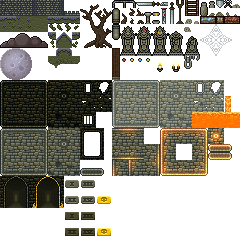
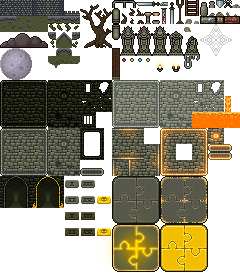
New sprites for Dokuro (glowing and aquiring sword), jigsaw sprites, ending level

diff --git a/lib/game/levels/ending.js b/lib/game/levels/ending.js
@@ -1,6 +1,6 @@
 ig.module( 'game.levels.ending' )
 .requires('impact.image','game.entities.dokuro','game.entities.door')
 .defines(function(){
-LevelEnding=/*JSON[*/{"entities":[{"type":"EntityDokuro","x":33,"y":188},{"type":"EntityDoor","x":40,"y":176,"settings":{"keepClosed":"true"}}],"layer":[{"name":"background","width":40,"height":30,"linkWithCollision":false,"visible":1,"tilesetName":"media/full-background.png","repeat":false,"preRender":false,"distance":"1","tilesize":8,"foreground":false,"data":[[1,2,3,4,5,6,7,8,9,10,11,12,13,14,15,16,17,18,19,20,21,22,23,24,25,26,27,28,29,30,31,32,33,34,35,36,37,38,39,40],[41,42,43,44,45,46,47,48,49,50,51,52,53,54,55,56,57,58,59,60,61,62,63,64,65,66,67,68,69,70,71,72,73,74,75,76,77,78,79,80],[81,82,83,84,85,86,87,88,89,90,91,92,93,94,95,96,97,98,99,100,101,102,103,104,105,106,107,108,109,110,111,112,113,114,115,116,117,118,119,120],[121,122,123,124,125,126,127,128,129,130,131,132,133,134,135,136,137,138,139,140,141,142,143,144,145,146,147,148,149,150,151,152,153,154,155,156,157,158,159,160],[161,162,163,164,165,166,167,168,169,170,171,172,173,174,175,176,177,178,179,180,181,182,183,184,185,186,187,188,189,190,191,192,193,194,195,196,197,198,199,200],[201,202,203,204,205,206,207,208,209,210,211,212,213,214,215,216,217,218,219,220,221,222,223,224,225,226,227,228,229,230,231,232,233,234,235,236,237,238,239,240],[241,242,243,244,245,246,247,248,249,250,251,252,253,254,255,256,257,258,259,260,261,262,263,264,265,266,267,268,269,270,271,272,273,274,275,276,277,278,279,280],[281,282,283,284,285,286,287,288,289,290,291,292,293,294,295,296,297,298,299,300,301,302,303,304,305,306,307,308,309,310,311,312,313,314,315,316,317,318,319,320],[321,322,323,324,325,326,327,328,329,330,331,332,333,334,335,336,337,338,339,340,341,342,343,344,345,346,347,348,349,350,351,352,353,354,355,356,357,358,359,360],[361,362,363,364,365,366,367,368,369,370,371,372,373,374,375,376,377,378,379,380,381,382,383,384,385,386,387,388,389,390,391,392,393,394,395,396,397,398,399,400],[401,402,403,404,405,406,407,408,409,410,411,412,413,414,415,416,417,418,419,420,421,411,411,411,411,411,411,411,411,411,411,411,433,434,435,436,437,438,439,440],[441,442,443,444,445,446,447,448,449,450,451,452,453,454,455,456,457,458,459,411,411,411,411,411,411,411,411,411,411,411,411,411,473,474,475,476,477,478,479,480],[481,482,483,484,485,486,487,488,489,490,491,492,493,494,495,496,497,498,499,500,501,502,503,504,505,506,507,508,509,510,497,512,513,514,515,516,517,518,519,520],[521,522,523,524,525,526,527,528,529,530,531,532,533,534,535,536,537,538,539,540,541,542,543,544,545,546,547,548,549,550,551,552,553,554,555,556,557,558,559,560],[561,562,563,564,565,566,567,568,569,570,571,572,573,574,575,576,577,578,579,580,581,582,583,584,585,586,587,588,589,590,591,592,593,594,595,596,597,598,599,600],[601,602,603,604,605,606,607,608,609,610,611,612,613,614,615,616,617,618,619,620,621,622,623,624,625,626,627,628,629,630,631,632,633,634,635,636,637,638,639,640],[641,642,643,644,645,646,647,648,649,650,651,652,653,654,655,656,657,658,659,660,661,662,663,664,665,666,667,668,669,670,671,672,673,674,675,676,677,678,679,680],[681,682,683,684,685,686,687,688,689,690,691,692,693,694,695,696,697,698,699,700,701,702,703,704,705,706,707,708,709,710,711,712,713,714,715,716,717,718,719,720],[721,722,723,724,725,726,727,728,729,730,731,732,733,734,735,736,737,738,739,740,741,742,743,744,745,746,747,748,749,750,751,752,753,754,755,756,757,758,759,760],[761,762,763,764,765,766,767,768,769,770,771,772,773,774,775,776,777,778,779,780,781,782,783,784,785,786,787,788,789,790,791,792,793,794,795,796,797,798,799,800],[801,802,803,804,805,806,807,808,809,810,811,812,813,814,815,816,817,818,819,820,821,822,823,824,825,826,827,828,829,830,831,832,833,834,835,836,837,838,839,840],[841,842,843,844,845,846,847,848,849,850,851,852,853,854,855,856,857,858,859,860,861,862,863,864,865,866,867,868,869,870,871,872,873,874,875,876,877,878,879,880],[881,882,883,884,885,886,887,888,889,890,891,892,893,894,895,896,897,898,899,900,901,902,903,904,905,906,907,908,909,910,911,912,913,914,915,916,917,918,919,920],[921,922,923,924,925,926,927,928,929,930,931,932,933,934,935,936,937,938,939,940,941,942,943,944,945,946,947,948,949,950,951,952,953,954,955,956,957,958,959,960],[961,962,963,964,965,966,967,968,969,970,971,972,973,974,975,976,977,978,979,980,981,982,983,984,985,986,987,988,989,990,991,992,993,994,995,996,997,998,999,1000],[1001,1002,1003,1004,1005,1006,1007,1008,1009,1010,1011,1012,1013,1014,1015,1016,1017,1018,1019,1020,1021,1022,1023,1024,1025,1026,1027,1028,1029,1030,1031,1032,1033,1034,1035,1036,1037,1038,1039,1040],[1041,1042,1043,1044,1045,1046,1047,1048,1049,1050,1051,1052,1053,1054,1055,1056,1057,1058,1059,1060,1061,1062,1063,1064,1065,1066,1067,1068,1069,1070,1071,1072,1073,1074,1075,1076,1077,1078,1079,1080],[1081,1082,1083,1084,1085,1086,1087,1088,1089,1090,1091,1092,1093,1094,1095,1096,1097,1098,1099,1100,1101,1102,1103,1104,1105,1106,1107,1108,1109,1110,1111,1112,1113,1114,1115,1116,1117,1118,1119,1120],[1121,1122,1123,1124,1125,1126,1127,1128,1129,1130,1131,1132,1133,1134,1135,1136,1137,1138,1139,1140,1141,1142,1143,1144,1145,1146,1147,1148,1149,1150,1151,1152,1153,1154,1155,1156,1157,1158,1159,1160],[1161,1162,1163,1164,1165,1166,1167,1168,1169,1170,1171,1172,1173,1174,1175,1176,1177,1178,1179,1180,1181,1182,1183,1184,1185,1186,1187,1188,1189,1190,1191,1192,1193,1194,1195,1196,1197,1198,1199,1200]]},{"name":"sky","width":40,"height":30,"linkWithCollision":false,"visible":1,"tilesetName":"media/scene.png","repeat":false,"preRender":false,"distance":"1","tilesize":8,"foreground":false,"data":[[0,0,0,0,0,0,0,0,0,0,0,0,0,0,0,0,0,0,0,0,0,0,0,0,0,0,0,0,0,0,0,0,0,0,0,0,0,0,0,0],[0,0,0,0,0,0,0,0,0,0,0,0,0,181,182,183,184,0,0,0,0,0,0,0,0,0,0,0,0,0,0,0,0,0,0,0,0,0,0,0],[0,0,0,0,0,0,0,0,0,0,0,0,0,211,212,213,214,0,0,0,0,0,0,121,122,123,124,125,126,0,0,0,0,0,0,0,0,0,0,0],[0,0,0,0,0,0,0,0,0,0,0,0,0,241,242,243,244,0,0,0,0,0,0,151,152,153,154,155,156,0,0,0,0,0,0,0,0,0,0,0],[0,121,122,123,124,125,126,0,0,0,0,0,0,271,272,273,274,0,0,0,0,0,0,0,0,0,0,0,0,0,0,0,0,0,0,0,0,0,0,0],[0,151,152,153,154,155,156,0,0,0,0,0,0,0,0,0,0,0,0,0,0,0,0,0,0,0,0,0,0,0,0,0,0,0,0,0,0,0,0,0],[0,0,0,0,0,0,0,0,0,121,122,123,124,125,126,0,0,0,0,0,0,0,0,0,0,0,0,0,0,0,0,0,0,0,0,0,0,0,0,0],[0,0,0,0,0,0,0,0,0,151,152,153,154,155,156,0,0,0,0,0,0,0,0,0,0,0,0,0,0,0,0,0,0,0,0,0,0,0,0,0],[0,0,0,0,0,0,0,0,0,0,0,0,0,0,0,0,0,0,0,0,0,0,0,0,0,0,0,0,0,0,0,0,0,0,0,0,0,0,0,0],[0,0,0,0,0,0,0,0,0,0,0,0,0,0,0,0,0,0,0,0,0,0,0,0,0,0,0,0,0,0,0,0,0,0,0,0,0,0,0,0],[0,0,0,0,0,0,0,0,0,0,0,0,0,0,0,0,0,0,0,0,0,0,0,0,0,0,0,0,0,0,0,0,0,0,0,0,0,0,0,0],[0,0,0,0,0,0,0,0,0,0,0,0,0,0,0,0,0,0,0,0,0,0,0,0,0,0,0,0,0,0,0,0,0,0,0,0,0,0,0,0],[0,0,0,0,0,0,0,0,0,0,0,0,0,0,0,0,0,0,0,0,0,0,0,0,0,0,0,0,0,0,0,0,0,0,0,0,0,0,0,0],[0,0,0,0,0,0,0,0,0,0,0,0,0,0,0,0,0,0,0,0,0,0,0,0,0,0,0,0,0,0,0,0,0,0,0,0,0,0,0,0],[0,0,0,0,0,0,0,0,0,0,0,0,0,0,0,0,0,0,0,0,0,0,0,0,0,0,0,0,0,0,0,0,0,0,0,0,0,0,0,0],[0,0,0,0,0,0,0,0,0,0,0,0,0,0,0,0,0,0,0,0,0,0,0,0,0,0,0,0,0,0,0,0,0,0,0,0,0,0,0,0],[0,0,0,0,0,0,0,0,0,0,0,0,0,0,0,0,0,0,0,0,0,0,0,0,0,0,0,0,0,0,0,0,0,0,0,0,0,0,0,0],[0,0,0,0,0,0,0,0,0,0,0,0,0,0,0,0,0,0,0,0,0,0,0,0,0,0,0,0,0,0,0,0,0,0,0,0,0,0,0,0],[0,0,0,0,0,0,0,0,0,0,0,0,0,0,0,0,0,0,0,0,0,0,0,0,0,0,0,0,0,0,0,0,0,0,0,0,0,0,0,0],[0,0,0,0,0,0,0,0,0,0,0,0,0,0,0,0,0,0,0,0,0,0,0,0,0,0,0,0,0,0,0,0,0,0,0,0,0,0,0,0],[0,0,0,0,0,0,0,0,0,0,0,0,0,0,0,0,0,0,0,0,0,0,0,0,0,0,0,0,0,0,0,0,0,0,0,0,0,0,0,0],[0,0,0,0,0,0,0,0,0,0,0,0,0,0,0,0,0,0,0,0,0,0,0,0,0,0,0,0,0,0,0,0,0,0,0,0,0,0,0,0],[0,0,0,0,0,0,0,0,0,0,0,0,0,0,0,0,0,0,0,0,0,0,0,0,0,0,0,0,0,0,0,0,0,0,0,0,0,0,0,0],[0,0,0,0,0,0,0,0,0,0,0,0,0,0,0,0,0,0,0,0,0,0,0,0,0,0,0,0,0,0,0,0,0,0,0,0,0,0,0,0],[0,0,0,0,0,0,0,0,0,0,0,0,0,0,0,0,0,0,0,0,0,0,0,0,0,0,0,0,0,0,0,0,0,0,0,0,0,0,0,0],[0,0,0,0,0,0,0,0,0,0,0,0,0,0,0,0,0,0,0,0,0,0,0,0,0,0,0,0,0,0,0,0,0,0,0,0,0,0,0,0],[0,0,0,0,0,0,0,0,0,0,0,0,0,0,0,0,0,0,0,0,0,0,0,0,0,0,0,0,0,0,0,0,0,0,0,0,0,0,0,0],[0,0,0,0,0,0,0,0,0,0,0,0,0,0,0,0,0,0,0,0,0,0,0,0,0,0,0,0,0,0,0,0,0,0,0,0,0,0,0,0],[0,0,0,0,0,0,0,0,0,0,0,0,0,0,0,0,0,0,0,0,0,0,0,0,0,0,0,0,0,0,0,0,0,0,0,0,0,0,0,0],[0,0,0,0,0,0,0,0,0,0,0,0,0,0,0,0,0,0,0,0,0,0,0,0,0,0,0,0,0,0,0,0,0,0,0,0,0,0,0,0]]},{"name":"terrain","width":40,"height":30,"linkWithCollision":true,"visible":1,"tilesetName":"media/scene.png","repeat":false,"preRender":false,"distance":"1","tilesize":8,"foreground":false,"data":[[0,0,0,0,0,0,0,0,0,0,0,0,0,0,0,0,0,0,0,0,0,0,0,0,0,0,0,0,0,0,0,0,0,0,0,0,0,0,0,543],[0,0,0,0,0,0,0,0,0,0,0,0,0,0,0,0,0,0,0,0,0,0,0,0,0,0,0,0,0,0,0,0,0,0,0,0,0,0,0,0],[0,0,0,0,0,0,0,0,0,0,0,0,0,0,0,0,0,0,0,0,0,0,0,0,0,0,0,0,0,0,0,0,0,0,0,0,0,0,0,0],[0,0,0,0,0,0,0,0,0,0,0,0,0,0,0,0,0,0,0,0,0,0,0,0,0,0,0,0,0,0,0,0,0,0,0,0,0,0,0,0],[0,0,0,0,0,0,0,0,0,0,0,0,0,0,0,0,0,0,0,0,0,0,0,0,0,0,0,0,0,0,0,0,0,0,0,0,0,0,0,0],[0,0,0,0,0,0,0,0,0,0,0,0,0,0,0,0,0,0,0,0,0,0,0,0,0,0,0,0,0,0,0,0,0,0,0,0,0,0,0,0],[0,0,0,0,0,0,0,0,0,0,0,0,0,0,0,0,0,0,0,0,0,0,0,0,0,0,0,0,0,0,0,0,0,0,0,0,0,0,0,0],[0,0,0,0,0,0,0,0,0,0,0,0,0,0,0,0,0,0,0,0,0,0,0,0,0,0,0,0,0,0,0,0,0,0,0,0,0,0,0,0],[0,0,0,0,0,0,0,0,0,0,0,0,0,0,0,0,0,0,0,0,0,0,0,0,0,0,0,0,0,0,0,0,0,0,0,0,0,0,0,0],[0,0,0,0,0,0,0,0,0,0,0,0,0,0,0,0,0,0,0,0,0,0,0,0,0,0,0,0,0,0,0,0,0,0,0,0,0,0,0,0],[0,0,0,0,0,0,0,0,0,0,0,0,0,0,0,0,0,0,0,0,0,0,0,0,0,0,0,0,0,0,0,0,0,0,0,0,0,0,0,0],[0,0,0,0,0,0,0,0,0,0,0,0,0,0,0,0,0,0,0,0,0,0,0,0,0,0,0,0,0,0,0,0,0,0,0,0,0,0,0,0],[0,0,0,0,0,0,0,0,0,0,0,0,0,0,0,0,0,0,0,0,0,0,0,0,0,0,0,0,0,0,0,0,0,0,0,0,0,0,0,0],[0,0,0,0,0,0,0,0,0,0,0,0,0,0,0,0,0,0,0,0,0,0,0,0,0,0,0,0,0,0,0,0,0,0,0,0,0,0,0,0],[0,0,0,0,0,0,0,0,0,0,0,0,0,0,0,0,0,0,0,0,0,0,0,0,0,0,0,0,0,0,0,0,0,0,0,0,0,0,0,0],[0,0,0,0,0,0,0,0,0,0,0,0,0,0,0,0,0,0,0,0,0,0,0,0,0,0,0,0,0,0,0,0,0,0,0,0,0,0,0,0],[0,0,0,0,0,0,0,0,0,0,0,0,0,0,0,0,0,0,0,0,0,0,0,0,0,0,0,0,0,0,0,0,0,0,0,0,0,0,0,0],[0,0,0,0,0,0,0,0,0,0,0,0,0,0,0,0,0,0,0,0,0,0,0,0,0,0,0,0,0,0,0,0,0,0,0,0,0,0,0,0],[0,0,0,0,0,0,0,0,0,0,0,0,0,0,0,0,0,0,0,0,0,0,0,0,0,0,0,0,0,0,0,0,0,0,0,0,0,0,0,0],[0,0,0,0,0,0,0,0,0,0,0,0,0,0,0,0,0,0,0,0,0,0,0,0,0,0,0,0,0,0,0,0,0,0,0,0,0,0,0,0],[0,0,0,0,0,0,0,0,0,0,0,0,0,0,0,0,0,0,0,0,0,0,0,0,0,0,0,0,0,0,0,0,0,0,0,0,0,0,0,0],[0,0,0,0,0,0,0,0,0,0,0,0,0,0,0,0,0,0,0,0,0,0,0,0,0,0,0,0,0,0,0,0,0,0,0,0,0,0,0,0],[0,0,0,0,0,0,0,0,0,0,0,0,0,0,0,0,0,0,0,0,0,0,0,0,0,0,0,0,0,0,0,0,0,0,0,0,0,0,0,0],[0,0,0,0,0,0,0,0,0,0,0,0,0,0,0,0,0,0,0,0,0,0,0,0,0,0,0,0,0,0,0,0,0,0,0,0,0,0,0,0],[0,0,0,0,0,0,0,0,0,0,0,46,0,0,0,0,0,0,0,0,0,0,0,0,0,0,0,0,0,0,0,0,0,0,0,0,0,0,0,0],[0,0,0,0,0,0,0,0,0,0,0,76,78,0,0,0,0,0,0,0,0,0,0,0,0,0,0,0,0,0,0,0,0,0,0,0,0,0,0,0],[61,62,61,62,61,62,61,62,61,62,61,62,61,62,61,62,61,62,61,62,61,62,61,62,61,62,61,62,61,62,61,62,61,62,61,62,61,62,61,62],[91,92,91,92,91,92,91,92,91,92,91,92,91,92,91,92,91,92,91,92,91,92,91,92,91,92,91,92,91,92,91,92,91,92,91,92,91,92,91,92],[63,64,63,64,63,64,63,64,63,64,63,64,63,64,63,64,63,64,63,64,63,64,63,64,63,64,63,64,63,64,63,64,63,64,63,64,63,64,63,64],[93,94,93,94,93,94,93,94,93,94,93,94,93,94,93,94,93,94,93,94,93,94,93,94,93,94,93,94,93,94,93,94,93,94,93,94,93,94,93,94]]},{"name":"collision","width":40,"height":30,"linkWithCollision":false,"visible":0,"tilesetName":"","repeat":false,"preRender":false,"distance":1,"tilesize":8,"foreground":false,"data":[[0,0,0,0,0,0,0,0,0,0,0,0,0,0,0,0,0,0,0,0,0,0,0,0,0,0,0,0,0,0,0,0,0,0,0,0,0,0,0,1],[0,0,0,0,0,0,0,0,0,0,0,0,0,0,0,0,0,0,0,0,0,0,0,0,0,0,0,0,0,0,0,0,0,0,0,0,0,0,0,0],[0,0,0,0,0,0,0,0,0,0,0,0,0,0,0,0,0,0,0,0,0,0,0,0,0,0,0,0,0,0,0,0,0,0,0,0,0,0,0,0],[0,0,0,0,0,0,0,0,0,0,0,0,0,0,0,0,0,0,0,0,0,0,0,0,0,0,0,0,0,0,0,0,0,0,0,0,0,0,0,0],[0,0,0,0,0,0,0,0,0,0,0,0,0,0,0,0,0,0,0,0,0,0,0,0,0,0,0,0,0,0,0,0,0,0,0,0,0,0,0,0],[0,0,0,0,0,0,0,0,0,0,0,0,0,0,0,0,0,0,0,0,0,0,0,0,0,0,0,0,0,0,0,0,0,0,0,0,0,0,0,0],[0,0,0,0,0,0,0,0,0,0,0,0,0,0,0,0,0,0,0,0,0,0,0,0,0,0,0,0,0,0,0,0,0,0,0,0,0,0,0,0],[0,0,0,0,0,0,0,0,0,0,0,0,0,0,0,0,0,0,0,0,0,0,0,0,0,0,0,0,0,0,0,0,0,0,0,0,0,0,0,0],[0,0,0,0,0,0,0,0,0,0,0,0,0,0,0,0,0,0,0,0,0,0,0,0,0,0,0,0,0,0,0,0,0,0,0,0,0,0,0,0],[0,0,0,0,0,0,0,0,0,0,0,0,0,0,0,0,0,0,0,0,0,0,0,0,0,0,0,0,0,0,0,0,0,0,0,0,0,0,0,0],[0,0,0,0,0,0,0,0,0,0,0,0,0,0,0,0,0,0,0,0,0,0,0,0,0,0,0,0,0,0,0,0,0,0,0,0,0,0,0,0],[0,0,0,0,0,0,0,0,0,0,0,0,0,0,0,0,0,0,0,0,0,0,0,0,0,0,0,0,0,0,0,0,0,0,0,0,0,0,0,0],[0,0,0,0,0,0,0,0,0,0,0,0,0,0,0,0,0,0,0,0,0,0,0,0,0,0,0,0,0,0,0,0,0,0,0,0,0,0,0,0],[0,0,0,0,0,0,0,0,0,0,0,0,0,0,0,0,0,0,0,0,0,0,0,0,0,0,0,0,0,0,0,0,0,0,0,0,0,0,0,0],[0,0,0,0,0,0,0,0,0,0,0,0,0,0,0,0,0,0,0,0,0,0,0,0,0,0,0,0,0,0,0,0,0,0,0,0,0,0,0,0],[0,0,0,0,0,0,0,0,0,0,0,0,0,0,0,0,0,0,0,0,0,0,0,0,0,0,0,0,0,0,0,0,0,0,0,0,0,0,0,0],[0,0,0,0,0,0,0,0,0,0,0,0,0,0,0,0,0,0,0,0,0,0,0,0,0,0,0,0,0,0,0,0,0,0,0,0,0,0,0,0],[0,0,0,0,0,0,0,0,0,0,0,0,0,0,0,0,0,0,0,0,0,0,0,0,0,0,0,0,0,0,0,0,0,0,0,0,0,0,0,0],[0,0,0,0,0,0,0,0,0,0,0,0,0,0,0,0,0,0,0,0,0,0,0,0,0,0,0,0,0,0,0,0,0,0,0,0,0,0,0,0],[0,0,0,0,0,0,0,0,0,0,0,0,0,0,0,0,0,0,0,0,0,0,0,0,0,0,0,0,0,0,0,0,0,0,0,0,0,0,0,0],[0,0,0,0,0,0,0,0,0,0,0,0,0,0,0,0,0,0,0,0,0,0,0,0,0,0,0,0,0,0,0,0,0,0,0,0,0,0,0,0],[0,0,0,0,0,0,0,0,0,0,0,0,0,0,0,0,0,0,0,0,0,0,0,0,0,0,0,0,0,0,0,0,0,0,0,0,0,0,0,0],[0,0,0,0,0,0,0,0,0,0,0,0,0,0,0,0,0,0,0,0,0,0,0,0,0,0,0,0,0,0,0,0,0,0,0,0,0,0,0,0],[0,0,0,0,0,0,0,0,0,0,0,0,0,0,0,0,0,0,0,0,0,0,0,0,0,0,0,0,0,0,0,0,0,0,0,0,0,0,0,0],[0,0,0,0,0,0,0,0,0,0,0,1,0,0,0,0,0,0,0,0,0,0,0,0,0,0,0,0,0,0,0,0,0,0,0,0,0,0,0,0],[0,0,0,0,0,0,0,0,0,0,0,1,1,0,0,0,0,0,0,0,0,0,0,0,0,0,0,0,0,0,0,0,0,0,0,0,0,0,0,0],[1,1,1,1,1,1,1,1,1,1,1,1,1,1,1,1,1,1,1,1,1,1,1,1,1,1,1,1,1,1,1,1,1,1,1,1,1,1,1,1],[1,1,1,1,1,1,1,1,1,1,1,1,1,1,1,1,1,1,1,1,1,1,1,1,1,1,1,1,1,1,1,1,1,1,1,1,1,1,1,1],[1,1,1,1,1,1,1,1,1,1,1,1,1,1,1,1,1,1,1,1,1,1,1,1,1,1,1,1,1,1,1,1,1,1,1,1,1,1,1,1],[1,1,1,1,1,1,1,1,1,1,1,1,1,1,1,1,1,1,1,1,1,1,1,1,1,1,1,1,1,1,1,1,1,1,1,1,1,1,1,1]]},{"name":"vignette","width":40,"height":30,"linkWithCollision":false,"visible":1,"tilesetName":"media/vignette.png","repeat":false,"preRender":false,"distance":"1","tilesize":8,"foreground":true,"data":[[1,2,3,4,5,6,7,8,9,10,11,12,13,14,15,16,17,18,19,20,21,22,23,24,25,26,27,28,29,30,31,32,33,34,35,36,37,38,39,40],[41,42,43,44,45,46,47,48,49,50,51,52,53,54,55,56,57,58,59,60,61,62,63,64,65,66,67,68,69,70,71,72,73,74,75,76,77,78,79,80],[81,82,83,84,85,86,87,88,89,90,91,92,93,94,95,96,97,98,99,100,101,102,103,104,105,106,107,108,109,110,111,112,113,114,115,116,117,118,119,120],[121,122,123,124,125,126,127,128,129,130,131,132,133,134,135,136,137,138,139,140,141,142,143,144,145,146,147,148,149,150,151,152,153,154,155,156,157,158,159,160],[161,162,163,164,165,166,167,168,169,170,171,172,173,174,175,176,177,178,179,180,181,182,183,184,185,186,187,188,189,190,191,192,193,194,195,196,197,198,199,200],[201,202,203,204,205,206,207,208,209,210,211,212,213,214,215,216,217,218,219,220,221,222,223,224,225,226,227,228,229,230,231,232,233,234,235,236,237,238,239,240],[241,242,243,244,245,246,247,248,249,250,251,252,253,254,255,256,257,258,259,260,261,262,263,264,265,266,267,268,269,270,271,272,273,274,275,276,277,278,279,280],[281,282,283,284,285,286,287,288,289,290,291,292,293,294,295,296,297,298,299,300,301,302,303,304,305,306,307,308,309,310,311,312,313,314,315,316,317,318,319,320],[321,322,323,324,325,326,327,328,329,330,331,332,333,334,335,336,337,338,339,340,341,342,343,344,345,346,347,348,349,350,351,352,353,354,355,356,357,358,359,360],[361,362,363,364,365,366,367,368,369,370,371,372,373,374,375,376,377,378,379,380,381,382,383,384,385,386,387,388,389,390,391,392,393,394,395,396,397,398,399,400],[401,402,403,404,405,406,407,408,409,410,411,412,413,414,415,416,417,418,419,420,421,422,423,424,425,426,427,428,429,430,431,432,433,434,435,436,437,438,439,440],[441,442,443,444,445,446,447,448,449,450,451,452,453,454,455,456,457,458,459,460,461,462,463,464,465,466,467,468,469,470,471,472,473,474,475,476,477,478,479,480],[481,482,483,484,485,486,487,488,489,490,491,492,493,494,495,496,497,498,499,500,501,502,503,504,505,506,507,508,509,510,511,512,513,514,515,516,517,518,519,520],[521,522,523,524,525,526,527,528,529,530,531,532,533,534,535,536,537,538,539,540,541,542,543,544,545,546,547,548,549,550,551,552,553,554,555,556,557,558,559,560],[561,562,563,564,565,566,567,568,569,570,571,572,573,574,575,576,577,578,579,580,581,582,583,584,585,586,587,588,589,590,591,592,593,594,595,596,597,598,599,600],[601,602,603,604,605,606,607,608,609,610,611,612,613,614,615,616,617,618,619,620,621,622,623,624,625,626,627,628,629,630,631,632,633,634,635,636,637,638,639,640],[641,642,643,644,645,646,647,648,649,650,651,652,653,654,655,656,657,658,659,660,661,662,663,664,665,666,667,668,669,670,671,672,673,674,675,676,677,678,679,680],[681,682,683,684,685,686,687,688,689,690,691,692,693,694,695,696,697,698,699,700,701,702,703,704,705,706,707,708,709,710,711,712,713,714,715,716,717,718,719,720],[721,722,723,724,725,726,727,728,729,730,731,732,733,734,735,736,737,738,739,740,741,742,743,744,745,746,747,748,749,750,751,752,753,754,755,756,757,758,759,760],[761,762,763,764,765,766,767,768,769,770,771,772,773,774,775,776,777,778,779,780,781,782,783,784,785,786,787,788,789,790,791,792,793,794,795,796,797,798,799,800],[801,802,803,804,805,806,807,808,809,810,811,812,813,814,815,816,817,818,819,820,821,822,823,824,825,826,827,828,829,830,831,832,833,834,835,836,837,838,839,840],[841,842,843,844,845,846,847,848,849,850,851,852,853,854,855,856,857,858,859,860,861,862,863,864,865,866,867,868,869,870,871,872,873,874,875,876,877,878,879,880],[881,882,883,884,885,886,887,888,889,890,891,892,893,894,895,896,897,898,899,900,901,902,903,904,905,906,907,908,909,910,911,912,913,914,915,916,917,918,919,920],[921,922,923,924,925,926,927,928,929,930,931,932,933,934,935,936,937,938,939,940,941,942,943,944,945,946,947,948,949,950,951,952,953,954,955,956,957,958,959,960],[961,962,963,964,965,966,967,968,969,970,971,972,973,974,975,976,977,978,979,980,981,982,983,984,985,986,987,988,989,990,991,992,993,994,995,996,997,998,999,1000],[1001,1002,1003,1004,1005,1006,1007,1008,1009,1010,1011,1012,1013,1014,1015,1016,1017,1018,1019,1020,1021,1022,1023,1024,1025,1026,1027,1028,1029,1030,1031,1032,1033,1034,1035,1036,1037,1038,1039,1040],[1041,1042,1043,1044,1045,1046,1047,1048,1049,1050,1051,1052,1053,1054,1055,1056,1057,1058,1059,1060,1061,1062,1063,1064,1065,1066,1067,1068,1069,1070,1071,1072,1073,1074,1075,1076,1077,1078,1079,1080],[1081,1082,1083,1084,1085,1086,1087,1088,1089,1090,1091,1092,1093,1094,1095,1096,1097,1098,1099,1100,1101,1102,1103,1104,1105,1106,1107,1108,1109,1110,1111,1112,1113,1114,1115,1116,1117,1118,1119,1120],[1121,1122,1123,1124,1125,1126,1127,1128,1129,1130,1131,1132,1133,1134,1135,1136,1137,1138,1139,1140,1141,1142,1143,1144,1145,1146,1147,1148,1149,1150,1151,1152,1153,1154,1155,1156,1157,1158,1159,1160],[1161,1162,1163,1164,1165,1166,1167,1168,1169,1170,1171,1172,1173,1174,1175,1176,1177,1178,1179,1180,1181,1182,1183,1184,1185,1186,1187,1188,1189,1190,1191,1192,1193,1194,1195,1196,1197,1198,1199,1200]]}]}/*]JSON*/;
-LevelEndingResources=[new ig.Image('media/full-background.png'), new ig.Image('media/scene.png'), new ig.Image('media/scene.png'), new ig.Image('media/vignette.png')];
+LevelEnding=/*JSON[*/{"entities":[{"type":"EntityDokuro","x":25,"y":188},{"type":"EntityDoor","x":32,"y":176,"settings":{"keepClosed":"true"}}],"layer":[{"name":"background","width":40,"height":30,"linkWithCollision":false,"visible":1,"tilesetName":"media/scene.png","repeat":false,"preRender":false,"distance":"1","tilesize":8,"foreground":false,"data":[[332,333,334,335,332,333,334,335,332,333,334,335,332,333,334,335,332,333,334,335,332,333,334,335,332,333,334,335,332,333,334,335,332,333,334,335,332,333,334,335],[362,363,364,365,362,363,364,365,362,363,364,365,362,363,364,365,362,363,364,365,362,363,364,365,362,363,364,365,362,363,364,365,362,363,364,365,362,363,364,365],[392,393,394,395,392,393,394,395,392,393,394,395,392,393,394,395,392,393,394,395,392,393,394,395,392,393,394,395,392,393,394,395,392,393,394,395,392,393,394,395],[422,423,424,425,422,423,424,425,422,423,424,425,422,423,424,425,422,423,424,425,422,423,424,425,422,423,424,425,422,423,424,425,422,423,424,425,422,423,424,425],[332,333,334,335,332,333,334,335,332,333,334,335,332,333,334,335,332,333,334,335,332,333,334,335,332,333,334,335,332,333,334,335,332,333,334,335,332,333,334,335],[362,363,364,365,362,363,364,365,395,392,393,394,395,392,393,394,362,363,364,365,362,363,364,365,362,363,364,365,362,363,364,365,362,363,364,365,362,363,364,365],[392,393,394,395,392,393,394,395,425,422,423,424,425,422,423,424,394,393,394,395,392,393,394,395,392,393,394,395,392,393,394,395,392,393,394,395,392,393,394,395],[422,423,424,425,422,423,424,425,335,332,333,334,335,332,333,334,424,423,424,425,422,423,424,425,422,423,424,425,422,423,424,425,422,423,424,425,422,423,424,425],[332,333,334,335,332,333,334,335,365,362,363,364,365,362,363,364,334,333,334,335,332,333,334,335,332,333,334,335,332,333,334,335,332,333,334,335,332,333,334,335],[362,363,364,365,362,363,364,365,395,392,393,394,395,392,393,394,364,363,364,365,362,363,364,365,362,363,364,365,362,363,364,365,362,363,364,365,362,363,364,365],[392,393,394,395,392,393,394,395,425,422,423,424,425,422,423,424,394,393,394,395,392,393,394,395,392,393,394,395,392,393,394,395,392,393,394,395,392,393,394,395],[422,423,424,425,422,423,424,425,335,332,333,334,335,332,333,334,424,392,393,394,395,392,393,394,422,423,424,425,422,423,424,425,422,423,424,425,422,423,424,425],[332,333,334,335,332,333,334,335,332,335,332,333,334,335,332,333,334,422,423,424,425,422,423,424,332,333,334,335,332,395,392,393,394,395,392,393,394,333,334,335],[362,363,364,365,362,395,392,393,394,395,392,393,394,363,364,365,335,332,333,334,335,332,333,334,362,363,364,365,362,425,422,423,424,425,422,423,424,363,364,365],[392,393,394,395,392,425,422,423,424,425,422,423,424,393,394,395,365,362,363,364,365,362,363,364,392,393,394,395,392,335,332,333,334,335,332,333,334,393,394,395],[422,423,424,425,422,335,332,333,334,335,332,333,334,423,424,425,395,392,393,394,395,392,393,394,422,423,424,425,422,365,362,363,364,365,362,363,364,423,424,425],[332,333,334,335,332,365,362,363,364,365,362,363,364,333,334,335,425,422,423,424,425,422,423,424,332,333,334,335,332,395,392,393,394,395,392,393,394,333,334,335],[362,363,364,365,362,395,392,393,394,395,392,393,394,363,364,365,335,332,333,334,335,332,333,334,362,363,364,365,362,425,422,423,424,425,422,423,424,363,364,365],[332,333,334,335,332,425,422,423,424,425,422,423,424,333,334,335,332,333,334,335,332,333,334,395,392,393,394,395,392,335,332,333,334,335,332,333,334,333,334,335],[362,363,364,365,362,335,332,333,334,335,332,333,334,363,364,365,362,363,364,365,362,363,364,425,422,423,424,425,422,423,424,365,362,363,364,365,362,363,364,365],[392,393,394,395,392,393,394,395,392,393,394,395,392,393,394,395,392,393,394,395,392,393,394,335,332,333,334,335,332,333,334,395,392,393,394,395,392,393,394,395],[422,423,424,425,422,423,424,425,422,423,424,425,422,423,424,425,422,423,424,425,422,423,424,365,362,363,364,365,362,363,364,425,422,423,424,425,422,423,424,425],[332,333,665,666,667,668,334,335,332,333,334,335,332,333,334,335,332,333,334,335,332,333,334,395,392,393,394,395,392,393,394,335,332,333,334,335,332,333,334,335],[362,363,695,696,697,698,364,365,362,363,364,365,362,363,364,365,362,363,364,365,362,363,364,425,422,423,424,425,422,423,424,365,362,363,364,365,362,363,364,365],[392,393,725,726,727,728,394,395,392,393,394,395,392,393,394,395,392,393,394,395,392,393,394,335,332,333,334,335,332,333,334,395,392,393,394,395,392,393,394,395],[422,423,755,756,757,758,424,425,422,423,424,425,422,423,424,425,422,423,424,425,422,423,424,425,422,423,424,425,422,423,424,425,422,423,424,425,422,423,424,425],[1041,1042,1043,1044,1045,1046,1047,1048,1049,1050,1051,1052,1053,1054,1055,1056,1057,1058,1059,1060,1061,1062,1063,1064,1065,1066,1067,1068,1069,1070,1071,1072,1073,1074,1075,1076,1077,1078,1079,1080],[1081,1082,1083,1084,1085,1086,1087,1088,1089,1090,1091,1092,1093,1094,1095,1096,1097,1098,1099,1100,1101,1102,1103,1104,1105,1106,1107,1108,1109,1110,1111,1112,1113,1114,1115,1116,1117,1118,1119,1120],[1121,1122,1123,1124,1125,1126,1127,1128,1129,1130,1131,1132,1133,1134,1135,1136,1137,1138,1139,1140,1141,1142,1143,1144,1145,1146,1147,1148,1149,1150,1151,1152,1153,1154,1155,1156,1157,1158,1159,1160],[1161,1162,1163,1164,1165,1166,1167,1168,1169,1170,1171,1172,1173,1174,1175,1176,1177,1178,1179,1180,1181,1182,1183,1184,1185,1186,1187,1188,1189,1190,1191,1192,1193,1194,1195,1196,1197,1198,1199,1200]]},{"name":"terrain","width":40,"height":30,"linkWithCollision":true,"visible":1,"tilesetName":"media/scene.png","repeat":false,"preRender":false,"distance":"1","tilesize":8,"foreground":false,"data":[[512,513,514,515,512,513,514,515,512,513,514,515,512,513,514,515,512,513,514,515,512,513,514,515,512,513,514,515,512,513,514,515,512,513,514,515,512,513,514,515],[542,543,544,545,542,543,544,545,542,543,544,545,542,543,544,545,542,543,544,545,542,543,544,545,542,543,544,545,542,543,544,545,542,543,544,545,542,543,544,545],[512,513,514,515,512,513,514,515,512,513,514,515,512,513,514,515,512,513,514,515,512,513,514,515,512,513,514,515,512,513,514,515,512,513,514,515,512,513,514,515],[604,605,602,603,604,605,602,603,604,605,602,603,604,605,602,603,602,603,604,605,602,603,604,605,602,603,604,605,602,603,604,605,602,603,604,605,602,603,604,605],[634,635,632,633,634,635,632,633,634,635,632,633,634,635,632,633,632,633,634,635,632,633,634,635,632,633,634,635,632,633,634,635,632,633,634,635,632,633,634,635],[0,0,0,0,0,0,0,0,0,0,0,0,0,0,631,632,519,605,511,512,513,514,515,516,604,518,635,636,0,0,0,0,0,0,0,0,0,0,0,0],[0,0,0,0,0,0,0,0,0,0,0,0,0,0,0,0,631,632,601,602,603,604,605,606,635,636,0,0,0,0,0,0,0,0,0,0,0,0,0,0],[0,0,0,0,0,0,0,0,0,0,0,0,0,0,0,0,0,0,631,632,633,634,635,636,0,0,0,0,0,0,0,0,0,0,0,0,0,0,0,0],[0,0,0,0,0,0,0,0,0,0,0,0,0,0,0,0,0,0,0,0,0,0,0,0,0,0,0,0,0,0,0,0,0,0,0,0,0,0,0,0],[0,0,0,0,0,0,0,0,0,0,0,0,0,0,0,0,0,0,0,0,0,0,0,0,0,0,0,0,0,0,0,0,0,0,0,0,0,0,0,0],[0,0,0,0,0,0,0,0,0,0,0,0,0,0,0,0,0,0,0,0,0,0,0,0,0,0,0,0,0,0,0,0,0,0,0,0,0,0,0,0],[0,0,0,0,0,0,0,0,0,0,0,0,0,0,0,0,0,0,0,0,0,0,0,0,0,0,0,0,0,0,0,0,0,0,0,0,0,0,0,0],[0,0,0,0,0,0,0,0,0,0,0,0,0,0,0,0,0,0,0,0,0,0,0,0,0,0,0,0,0,0,0,0,0,0,0,0,0,0,0,0],[0,0,0,0,0,0,0,0,0,0,0,0,0,0,0,0,0,0,0,0,0,0,0,0,0,0,0,0,0,0,0,0,0,0,0,0,0,0,0,0],[0,0,0,0,0,0,0,0,0,0,0,0,0,0,0,0,0,0,0,0,0,0,0,0,0,0,0,0,0,0,0,0,0,0,0,0,0,0,0,0],[0,0,0,0,0,0,0,0,0,0,0,0,0,0,0,0,0,0,0,0,0,0,0,0,0,0,0,0,0,0,0,0,0,0,0,0,0,0,0,0],[0,0,0,0,0,0,0,0,0,0,0,0,0,0,0,0,0,0,0,0,0,0,0,0,0,0,0,0,0,0,0,0,0,0,0,0,0,0,0,0],[0,0,0,0,0,0,0,0,0,0,0,0,0,0,0,0,0,0,0,0,0,0,0,0,0,0,0,0,0,0,0,0,0,0,0,0,0,0,0,0],[0,0,0,0,0,0,0,0,0,0,0,0,0,0,0,0,0,0,0,0,0,0,0,0,0,0,0,0,0,0,0,0,0,0,0,0,0,0,0,0],[0,0,0,0,0,0,0,0,0,0,0,0,0,0,0,0,0,0,0,0,0,0,0,0,0,0,0,0,0,0,0,0,0,0,0,0,0,0,0,0],[0,0,0,0,0,0,0,0,0,0,0,0,0,0,0,0,0,0,0,0,0,0,0,0,0,0,0,0,0,0,0,0,0,0,0,0,0,0,0,0],[0,0,0,0,0,0,0,0,0,0,0,0,0,0,0,0,0,0,0,0,0,0,0,0,0,0,0,0,0,0,0,0,0,0,0,0,0,0,0,0],[0,0,0,0,0,0,0,0,0,0,0,0,0,0,0,0,0,0,0,0,0,0,0,0,0,0,0,0,0,0,0,0,0,0,0,0,0,0,0,0],[0,0,0,0,0,0,0,0,0,0,0,0,0,0,0,0,0,0,481,482,483,484,485,486,0,0,0,0,0,0,0,0,0,0,0,0,0,0,0,0],[0,0,0,0,0,0,0,0,0,0,0,0,0,0,0,0,481,482,511,512,513,514,515,516,485,486,0,0,0,0,0,0,0,0,0,0,0,0,0,0],[0,0,0,0,0,0,0,0,0,0,0,0,0,0,481,482,549,544,541,542,543,544,545,546,543,548,485,486,0,0,0,0,0,0,0,0,0,0,0,0],[482,483,484,485,482,483,484,485,482,483,484,485,482,483,484,485,482,483,484,485,482,483,484,485,482,483,484,485,482,483,484,485,482,483,484,485,482,483,484,485],[512,513,514,515,512,513,514,515,512,513,514,515,512,513,514,515,512,513,514,515,512,513,514,515,512,513,514,515,512,513,514,515,512,513,514,515,512,513,514,515],[542,543,544,545,542,543,544,545,542,543,544,545,542,543,544,545,542,543,544,545,542,543,544,545,542,543,544,545,542,543,544,545,542,543,544,545,542,543,544,545],[602,603,604,605,602,603,604,605,602,603,604,605,602,603,604,605,602,603,604,605,602,603,604,605,602,603,604,605,602,603,604,605,602,603,604,605,602,603,604,605]]},{"name":"collision","width":40,"height":30,"linkWithCollision":false,"visible":0,"tilesetName":"","repeat":false,"preRender":false,"distance":1,"tilesize":8,"foreground":false,"data":[[1,1,1,1,1,1,1,1,1,1,1,1,1,1,1,1,1,1,1,1,1,1,1,1,1,1,1,1,1,1,1,1,1,1,1,1,1,1,1,1],[1,1,1,1,1,1,1,1,1,1,1,1,1,1,1,1,1,1,1,1,1,1,1,1,1,1,1,1,1,1,1,1,1,1,1,1,1,1,1,1],[1,1,1,1,1,1,1,1,1,1,1,1,1,1,1,1,1,1,1,1,1,1,1,1,1,1,1,1,1,1,1,1,1,1,1,1,1,1,1,1],[1,1,1,1,1,1,1,1,1,1,1,1,1,1,1,1,1,1,1,1,1,1,1,1,1,1,1,1,1,1,1,1,1,1,1,1,1,1,1,1],[1,1,1,1,1,1,1,1,1,1,1,1,1,1,1,1,1,1,1,1,1,1,1,1,1,1,1,1,1,1,1,1,1,1,1,1,1,1,1,1],[0,0,0,0,0,0,0,0,0,0,0,0,0,0,1,1,1,1,1,1,1,1,1,1,1,1,1,1,0,0,0,0,0,0,0,0,0,0,0,0],[0,0,0,0,0,0,0,0,0,0,0,0,0,0,0,0,1,1,1,1,1,1,1,1,1,1,0,0,0,0,0,0,0,0,0,0,0,0,0,0],[0,0,0,0,0,0,0,0,0,0,0,0,0,0,0,0,0,0,1,1,1,1,1,1,0,0,0,0,0,0,0,0,0,0,0,0,0,0,0,0],[0,0,0,0,0,0,0,0,0,0,0,0,0,0,0,0,0,0,0,0,0,0,0,0,0,0,0,0,0,0,0,0,0,0,0,0,0,0,0,0],[0,0,0,0,0,0,0,0,0,0,0,0,0,0,0,0,0,0,0,0,0,0,0,0,0,0,0,0,0,0,0,0,0,0,0,0,0,0,0,0],[0,0,0,0,0,0,0,0,0,0,0,0,0,0,0,0,0,0,0,0,0,0,0,0,0,0,0,0,0,0,0,0,0,0,0,0,0,0,0,0],[0,0,0,0,0,0,0,0,0,0,0,0,0,0,0,0,0,0,0,0,0,0,0,0,0,0,0,0,0,0,0,0,0,0,0,0,0,0,0,0],[0,0,0,0,0,0,0,0,0,0,0,0,0,0,0,0,0,0,0,0,0,0,0,0,0,0,0,0,0,0,0,0,0,0,0,0,0,0,0,0],[0,0,0,0,0,0,0,0,0,0,0,0,0,0,0,0,0,0,0,0,0,0,0,0,0,0,0,0,0,0,0,0,0,0,0,0,0,0,0,0],[0,0,0,0,0,0,0,0,0,0,0,0,0,0,0,0,0,0,0,0,0,0,0,0,0,0,0,0,0,0,0,0,0,0,0,0,0,0,0,0],[0,0,0,0,0,0,0,0,0,0,0,0,0,0,0,0,0,0,0,0,0,0,0,0,0,0,0,0,0,0,0,0,0,0,0,0,0,0,0,0],[0,0,0,0,0,0,0,0,0,0,0,0,0,0,0,0,0,0,0,0,0,0,0,0,0,0,0,0,0,0,0,0,0,0,0,0,0,0,0,0],[0,0,0,0,0,0,0,0,0,0,0,0,0,0,0,0,0,0,0,0,0,0,0,0,0,0,0,0,0,0,0,0,0,0,0,0,0,0,0,0],[0,0,0,0,0,0,0,0,0,0,0,0,0,0,0,0,0,0,0,0,0,0,0,0,0,0,0,0,0,0,0,0,0,0,0,0,0,0,0,0],[0,0,0,0,0,0,0,0,0,0,0,0,0,0,0,0,0,0,0,0,0,0,0,0,0,0,0,0,0,0,0,0,0,0,0,0,0,0,0,0],[0,0,0,0,0,0,0,0,0,0,0,0,0,0,0,0,0,0,0,0,0,0,0,0,0,0,0,0,0,0,0,0,0,0,0,0,0,0,0,0],[0,0,0,0,0,0,0,0,0,0,0,0,0,0,0,0,0,0,0,0,0,0,0,0,0,0,0,0,0,0,0,0,0,0,0,0,0,0,0,0],[0,0,0,0,0,0,0,0,0,0,0,0,0,0,0,0,0,0,0,0,0,0,0,0,0,0,0,0,0,0,0,0,0,0,0,0,0,0,0,0],[0,0,0,0,0,0,0,0,0,0,0,0,0,0,0,0,0,0,1,1,1,1,1,1,0,0,0,0,0,0,0,0,0,0,0,0,0,0,0,0],[0,0,0,0,0,0,0,0,0,0,0,0,0,0,0,0,1,1,1,1,1,1,1,1,1,1,0,0,0,0,0,0,0,0,0,0,0,0,0,0],[0,0,0,0,0,0,0,0,0,0,0,0,0,0,1,1,1,1,1,1,1,1,1,1,1,1,1,1,0,0,0,0,0,0,0,0,0,0,0,0],[1,1,1,1,1,1,1,1,1,1,1,1,1,1,1,1,1,1,1,1,1,1,1,1,1,1,1,1,1,1,1,1,1,1,1,1,1,1,1,1],[1,1,1,1,1,1,1,1,1,1,1,1,1,1,1,1,1,1,1,1,1,1,1,1,1,1,1,1,1,1,1,1,1,1,1,1,1,1,1,1],[1,1,1,1,1,1,1,1,1,1,1,1,1,1,1,1,1,1,1,1,1,1,1,1,1,1,1,1,1,1,1,1,1,1,1,1,1,1,1,1],[1,1,1,1,1,1,1,1,1,1,1,1,1,1,1,1,1,1,1,1,1,1,1,1,1,1,1,1,1,1,1,1,1,1,1,1,1,1,1,1]]},{"name":"doodads","width":40,"height":30,"linkWithCollision":false,"visible":true,"tilesetName":"media/scene.png","repeat":false,"preRender":false,"distance":"1","tilesize":8,"foreground":false,"data":[[0,0,0,0,0,0,0,0,0,0,0,0,0,0,0,0,0,0,0,0,0,0,0,0,0,0,0,0,0,0,0,0,0,0,0,0,0,0,0,0],[0,0,0,0,0,0,0,0,0,0,0,0,0,0,0,0,0,0,0,0,0,0,0,0,0,0,0,0,0,0,0,0,0,0,0,0,0,0,0,0],[0,0,0,0,0,0,0,0,0,0,0,0,0,0,0,0,0,0,0,0,0,0,0,0,0,0,0,0,0,0,0,0,0,0,0,0,0,0,0,0],[0,0,0,0,0,0,0,0,0,0,0,0,0,0,0,0,0,0,0,0,0,0,0,0,0,0,0,0,0,0,0,0,0,0,0,0,0,0,0,0],[0,0,0,0,0,0,0,0,0,0,0,0,0,0,0,0,0,0,0,0,0,0,0,0,0,0,0,0,0,0,0,0,0,0,0,0,0,0,0,0],[0,0,0,0,0,0,0,0,0,551,553,0,0,0,0,0,0,0,0,0,0,0,0,0,0,0,0,0,0,0,0,551,553,0,0,0,0,0,0,0],[0,0,0,0,0,0,0,0,0,551,553,0,0,0,551,553,0,0,0,0,0,0,0,0,0,0,551,553,0,0,0,551,553,0,0,0,0,0,0,0],[0,0,0,0,0,0,0,0,0,551,553,0,0,0,551,553,0,0,0,0,0,0,0,0,0,0,551,553,0,0,0,551,553,0,0,0,0,0,0,0],[0,0,0,0,0,0,0,0,0,551,553,0,0,0,551,553,0,0,581,583,551,553,581,583,0,0,551,553,0,0,0,551,553,0,0,0,0,0,0,0],[0,0,0,0,0,0,0,0,0,551,553,0,0,0,551,553,0,0,0,0,551,553,0,0,0,0,551,553,0,0,0,551,553,0,0,0,0,0,0,0],[0,0,0,0,0,0,0,0,0,551,553,0,0,0,551,553,0,0,0,0,581,583,0,0,0,0,551,553,0,0,0,551,553,0,0,0,0,0,0,0],[0,0,0,0,0,0,0,0,0,551,553,0,0,0,581,583,0,0,0,0,0,0,0,0,0,0,581,583,0,0,0,551,553,0,0,0,0,0,0,0],[0,0,0,0,0,0,0,0,0,551,553,0,0,0,0,0,0,0,0,0,0,0,0,0,0,0,0,0,0,0,0,551,553,0,0,0,0,0,0,0],[0,0,0,0,0,0,0,0,0,581,583,0,0,0,0,0,0,0,675,676,677,678,679,680,0,0,0,0,0,0,0,581,583,0,0,0,0,0,0,0],[0,0,0,0,0,0,0,0,0,0,0,0,0,0,0,0,0,0,705,706,707,708,709,710,0,0,0,0,0,0,0,0,0,0,0,0,0,0,0,0],[0,0,0,0,0,0,0,0,0,0,0,0,0,0,0,0,0,0,735,736,737,738,739,740,0,0,0,0,0,0,0,0,0,0,0,0,0,0,0,0],[0,0,0,0,0,0,0,0,0,0,0,0,0,0,0,0,0,0,765,766,767,768,769,770,0,0,0,0,0,0,0,0,0,0,0,0,0,0,0,0],[0,0,0,0,0,0,0,0,0,0,0,0,0,0,0,0,0,0,795,796,797,798,799,800,0,0,0,0,0,0,0,0,0,0,0,0,0,0,0,0],[0,0,0,0,0,0,0,0,0,491,493,0,0,0,0,0,0,0,825,826,827,828,829,830,0,0,0,0,0,0,0,491,493,0,0,0,0,0,0,0],[0,0,0,0,0,0,0,0,0,551,553,0,0,0,491,493,0,0,0,0,0,0,0,0,0,0,491,493,0,0,0,551,553,0,0,0,0,0,0,0],[0,0,0,0,0,0,0,0,0,551,553,0,0,0,551,553,0,0,0,0,0,0,0,0,0,0,551,553,0,0,0,551,553,0,0,0,0,0,0,0],[0,0,0,0,0,0,0,0,0,551,553,0,0,0,551,553,0,0,0,0,491,493,0,0,0,0,551,553,0,0,0,551,553,0,0,0,0,0,0,0],[0,0,0,0,0,0,0,232,233,551,553,232,233,0,551,553,0,0,491,493,551,553,491,493,0,0,551,553,0,232,233,551,553,232,233,0,0,0,0,0],[0,0,0,0,0,0,0,262,263,551,553,262,263,0,551,553,0,0,0,0,0,0,0,0,0,0,551,553,0,262,263,551,553,262,263,0,0,0,0,0],[0,0,0,0,0,0,0,0,0,551,553,0,0,0,551,553,0,0,0,0,0,0,0,0,0,0,551,553,0,0,0,551,553,0,0,0,0,0,0,0],[0,0,0,0,0,0,0,0,0,551,553,0,0,0,0,0,0,0,0,0,0,0,0,0,0,0,0,0,0,0,0,551,553,0,0,0,0,0,0,0],[0,0,0,0,0,0,0,0,0,0,0,0,0,0,0,0,0,0,0,0,0,0,0,0,0,0,0,0,0,0,0,0,0,0,0,0,0,0,0,0],[0,0,0,0,0,0,0,0,0,0,0,0,0,0,0,0,0,0,0,0,0,0,0,0,0,0,0,0,0,0,0,0,0,0,0,0,0,0,0,0],[0,0,0,0,0,0,0,0,0,0,0,0,0,0,0,0,0,0,0,0,0,0,0,0,0,0,0,0,0,0,0,0,0,0,0,0,0,0,0,0],[0,0,0,0,0,0,0,0,0,0,0,0,0,0,0,0,0,0,0,0,0,0,0,0,0,0,0,0,0,0,0,0,0,0,0,0,0,0,0,0]]},{"name":"vignette","width":40,"height":30,"linkWithCollision":false,"visible":1,"tilesetName":"media/vignette.png","repeat":false,"preRender":false,"distance":"1","tilesize":8,"foreground":true,"data":[[1,2,3,4,5,6,7,8,9,10,11,12,13,14,15,16,17,18,19,20,21,22,23,24,25,26,27,28,29,30,31,32,33,34,35,36,37,38,39,40],[41,42,43,44,45,46,47,48,49,50,51,52,53,54,55,56,57,58,59,60,61,62,63,64,65,66,67,68,69,70,71,72,73,74,75,76,77,78,79,80],[81,82,83,84,85,86,87,88,89,90,91,92,93,94,95,96,97,98,99,100,101,102,103,104,105,106,107,108,109,110,111,112,113,114,115,116,117,118,119,120],[121,122,123,124,125,126,127,128,129,130,131,132,133,134,135,136,137,138,139,140,141,142,143,144,145,146,147,148,149,150,151,152,153,154,155,156,157,158,159,160],[161,162,163,164,165,166,167,168,169,170,171,172,173,174,175,176,177,178,179,180,181,182,183,184,185,186,187,188,189,190,191,192,193,194,195,196,197,198,199,200],[201,202,203,204,205,206,207,208,209,210,211,212,213,214,215,216,217,218,219,220,221,222,223,224,225,226,227,228,229,230,231,232,233,234,235,236,237,238,239,240],[241,242,243,244,245,246,247,248,249,250,251,252,253,254,255,256,257,258,259,260,261,262,263,264,265,266,267,268,269,270,271,272,273,274,275,276,277,278,279,280],[281,282,283,284,285,286,287,288,289,290,291,292,293,294,295,296,297,298,299,300,301,302,303,304,305,306,307,308,309,310,311,312,313,314,315,316,317,318,319,320],[321,322,323,324,325,326,327,328,329,330,331,332,333,334,335,336,337,338,339,340,341,342,343,344,345,346,347,348,349,350,351,352,353,354,355,356,357,358,359,360],[361,362,363,364,365,366,367,368,369,370,371,372,373,374,375,376,377,378,379,380,381,382,383,384,385,386,387,388,389,390,391,392,393,394,395,396,397,398,399,400],[401,402,403,404,405,406,407,408,409,410,411,412,413,414,415,416,417,418,419,420,421,422,423,424,425,426,427,428,429,430,431,432,433,434,435,436,437,438,439,440],[441,442,443,444,445,446,447,448,449,450,451,452,453,454,455,456,457,458,459,460,461,462,463,464,465,466,467,468,469,470,471,472,473,474,475,476,477,478,479,480],[481,482,483,484,485,486,487,488,489,490,491,492,493,494,495,496,497,498,499,500,501,502,503,504,505,506,507,508,509,510,511,512,513,514,515,516,517,518,519,520],[521,522,523,524,525,526,527,528,529,530,531,532,533,534,535,536,537,538,539,540,541,542,543,544,545,546,547,548,549,550,551,552,553,554,555,556,557,558,559,560],[561,562,563,564,565,566,567,568,569,570,571,572,573,574,575,576,577,578,579,580,581,582,583,584,585,586,587,588,589,590,591,592,593,594,595,596,597,598,599,600],[601,602,603,604,605,606,607,608,609,610,611,612,613,614,615,616,617,618,619,620,621,622,623,624,625,626,627,628,629,630,631,632,633,634,635,636,637,638,639,640],[641,642,643,644,645,646,647,648,649,650,651,652,653,654,655,656,657,658,659,660,661,662,663,664,665,666,667,668,669,670,671,672,673,674,675,676,677,678,679,680],[681,682,683,684,685,686,687,688,689,690,691,692,693,694,695,696,697,698,699,700,701,702,703,704,705,706,707,708,709,710,711,712,713,714,715,716,717,718,719,720],[721,722,723,724,725,726,727,728,729,730,731,732,733,734,735,736,737,738,739,740,741,742,743,744,745,746,747,748,749,750,751,752,753,754,755,756,757,758,759,760],[761,762,763,764,765,766,767,768,769,770,771,772,773,774,775,776,777,778,779,780,781,782,783,784,785,786,787,788,789,790,791,792,793,794,795,796,797,798,799,800],[801,802,803,804,805,806,807,808,809,810,811,812,813,814,815,816,817,818,819,820,821,822,823,824,825,826,827,828,829,830,831,832,833,834,835,836,837,838,839,840],[841,842,843,844,845,846,847,848,849,850,851,852,853,854,855,856,857,858,859,860,861,862,863,864,865,866,867,868,869,870,871,872,873,874,875,876,877,878,879,880],[881,882,883,884,885,886,887,888,889,890,891,892,893,894,895,896,897,898,899,900,901,902,903,904,905,906,907,908,909,910,911,912,913,914,915,916,917,918,919,920],[921,922,923,924,925,926,927,928,929,930,931,932,933,934,935,936,937,938,939,940,941,942,943,944,945,946,947,948,949,950,951,952,953,954,955,956,957,958,959,960],[961,962,963,964,965,966,967,968,969,970,971,972,973,974,975,976,977,978,979,980,981,982,983,984,985,986,987,988,989,990,991,992,993,994,995,996,997,998,999,1000],[1001,1002,1003,1004,1005,1006,1007,1008,1009,1010,1011,1012,1013,1014,1015,1016,1017,1018,1019,1020,1021,1022,1023,1024,1025,1026,1027,1028,1029,1030,1031,1032,1033,1034,1035,1036,1037,1038,1039,1040],[1041,1042,1043,1044,1045,1046,1047,1048,1049,1050,1051,1052,1053,1054,1055,1056,1057,1058,1059,1060,1061,1062,1063,1064,1065,1066,1067,1068,1069,1070,1071,1072,1073,1074,1075,1076,1077,1078,1079,1080],[1081,1082,1083,1084,1085,1086,1087,1088,1089,1090,1091,1092,1093,1094,1095,1096,1097,1098,1099,1100,1101,1102,1103,1104,1105,1106,1107,1108,1109,1110,1111,1112,1113,1114,1115,1116,1117,1118,1119,1120],[1121,1122,1123,1124,1125,1126,1127,1128,1129,1130,1131,1132,1133,1134,1135,1136,1137,1138,1139,1140,1141,1142,1143,1144,1145,1146,1147,1148,1149,1150,1151,1152,1153,1154,1155,1156,1157,1158,1159,1160],[1161,1162,1163,1164,1165,1166,1167,1168,1169,1170,1171,1172,1173,1174,1175,1176,1177,1178,1179,1180,1181,1182,1183,1184,1185,1186,1187,1188,1189,1190,1191,1192,1193,1194,1195,1196,1197,1198,1199,1200]]}]}/*]JSON*/;
+LevelEndingResources=[new ig.Image('media/scene.png'), new ig.Image('media/scene.png'), new ig.Image('media/scene.png'), new ig.Image('media/vignette.png')];
 });

diff --git a/lib/game/main.js b/lib/game/main.js
@@ -213,10 +213,14 @@ ig.module('gamemain')
             "Art & Design", "RAFAEL MASONI",
             "",
             "",
-            "Sound Effects", "RAFAEL MASONI / WILLIAN MOLINARI",
+            "Sound Effects", "PLAEV TEAM"
             "",
             "",
             "Music", "Flesheaters by MATT NIDA", "chessboss by BERT FISK", "Crap-yo-pants by RAWMIN",
+            "",
+            "",
+            "Plaev is Rafael Masoni and Willian Molinari",
+            "Play Everywhere",
             "",
             "",
             "Follow us on Twitter",

diff --git a/lib/game/entities/dokuro.js b/lib/game/entities/dokuro.js
@@ -14,7 +14,7 @@ ig.module('game.entities.dokuro')
         checkAgainst: ig.Entity.TYPE.A,
         collides: ig.Entity.COLLIDES.PASSIVE,
 
-        animSheet: new ig.AnimationSheet('media/dokuro.png', 16, 20),
+        animSheet: new ig.AnimationSheet('media/dokuro.png', 16, 32),
 
         accelAir: 500,
         accelGround: 400,
